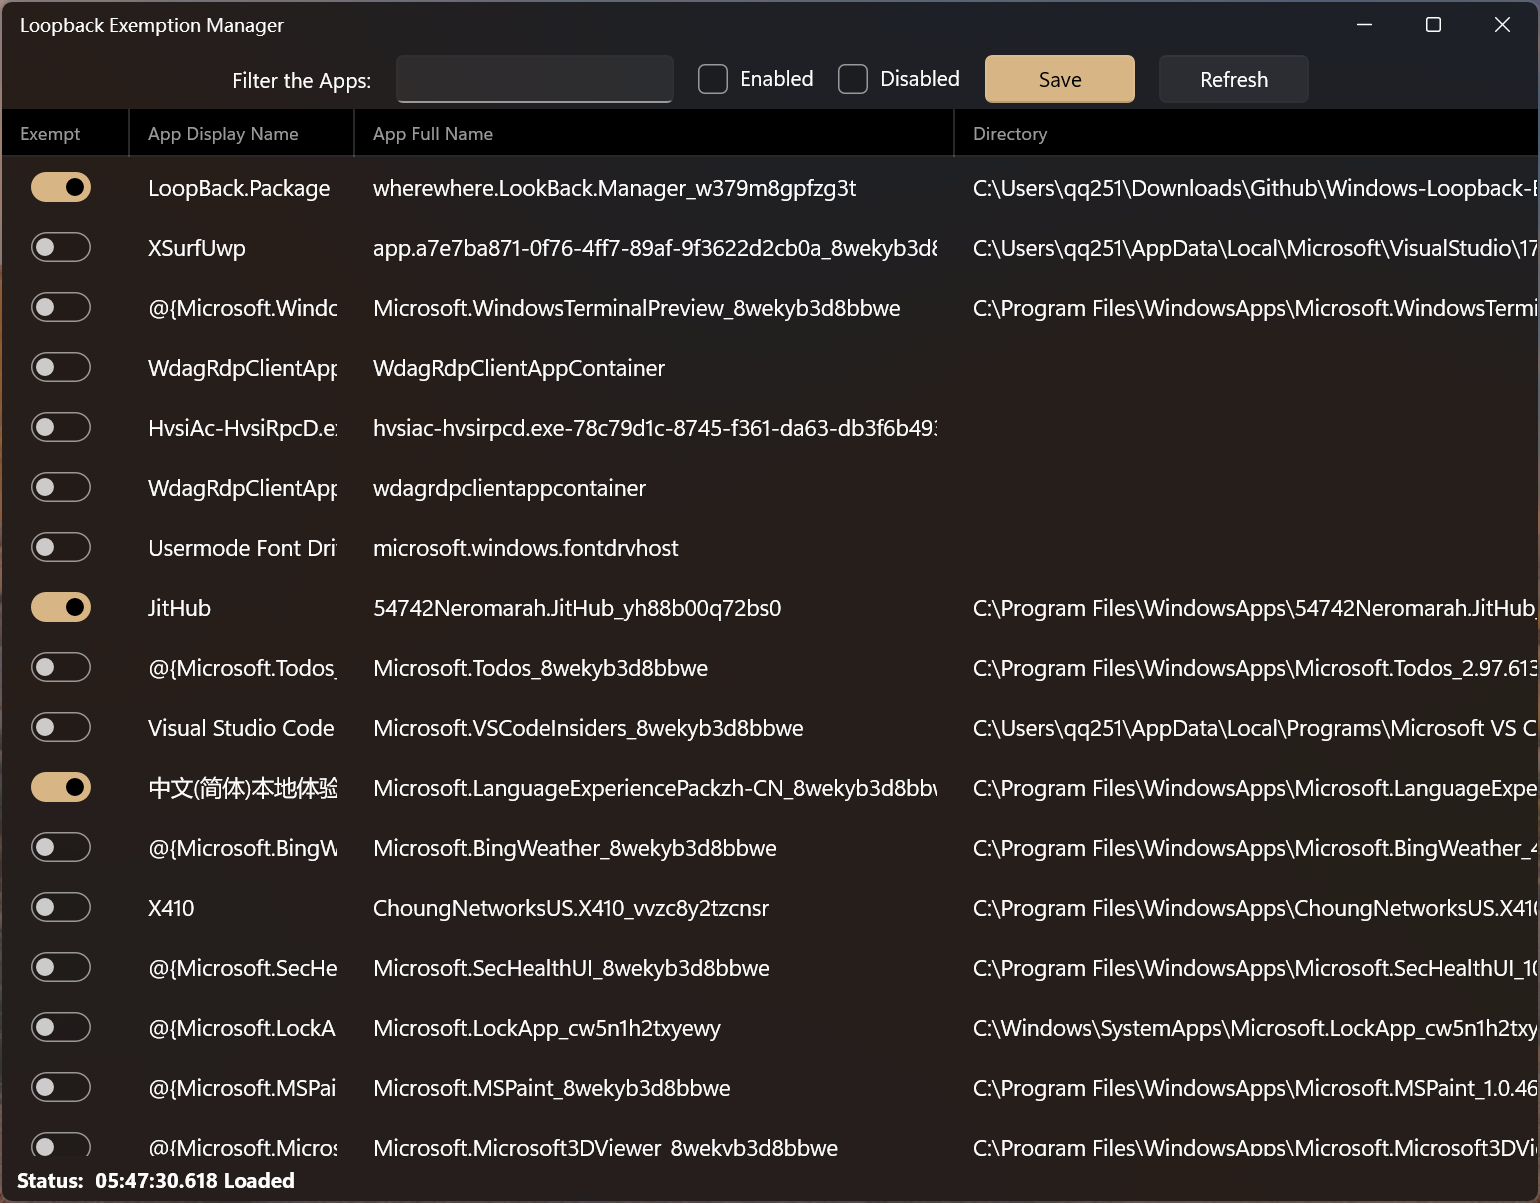
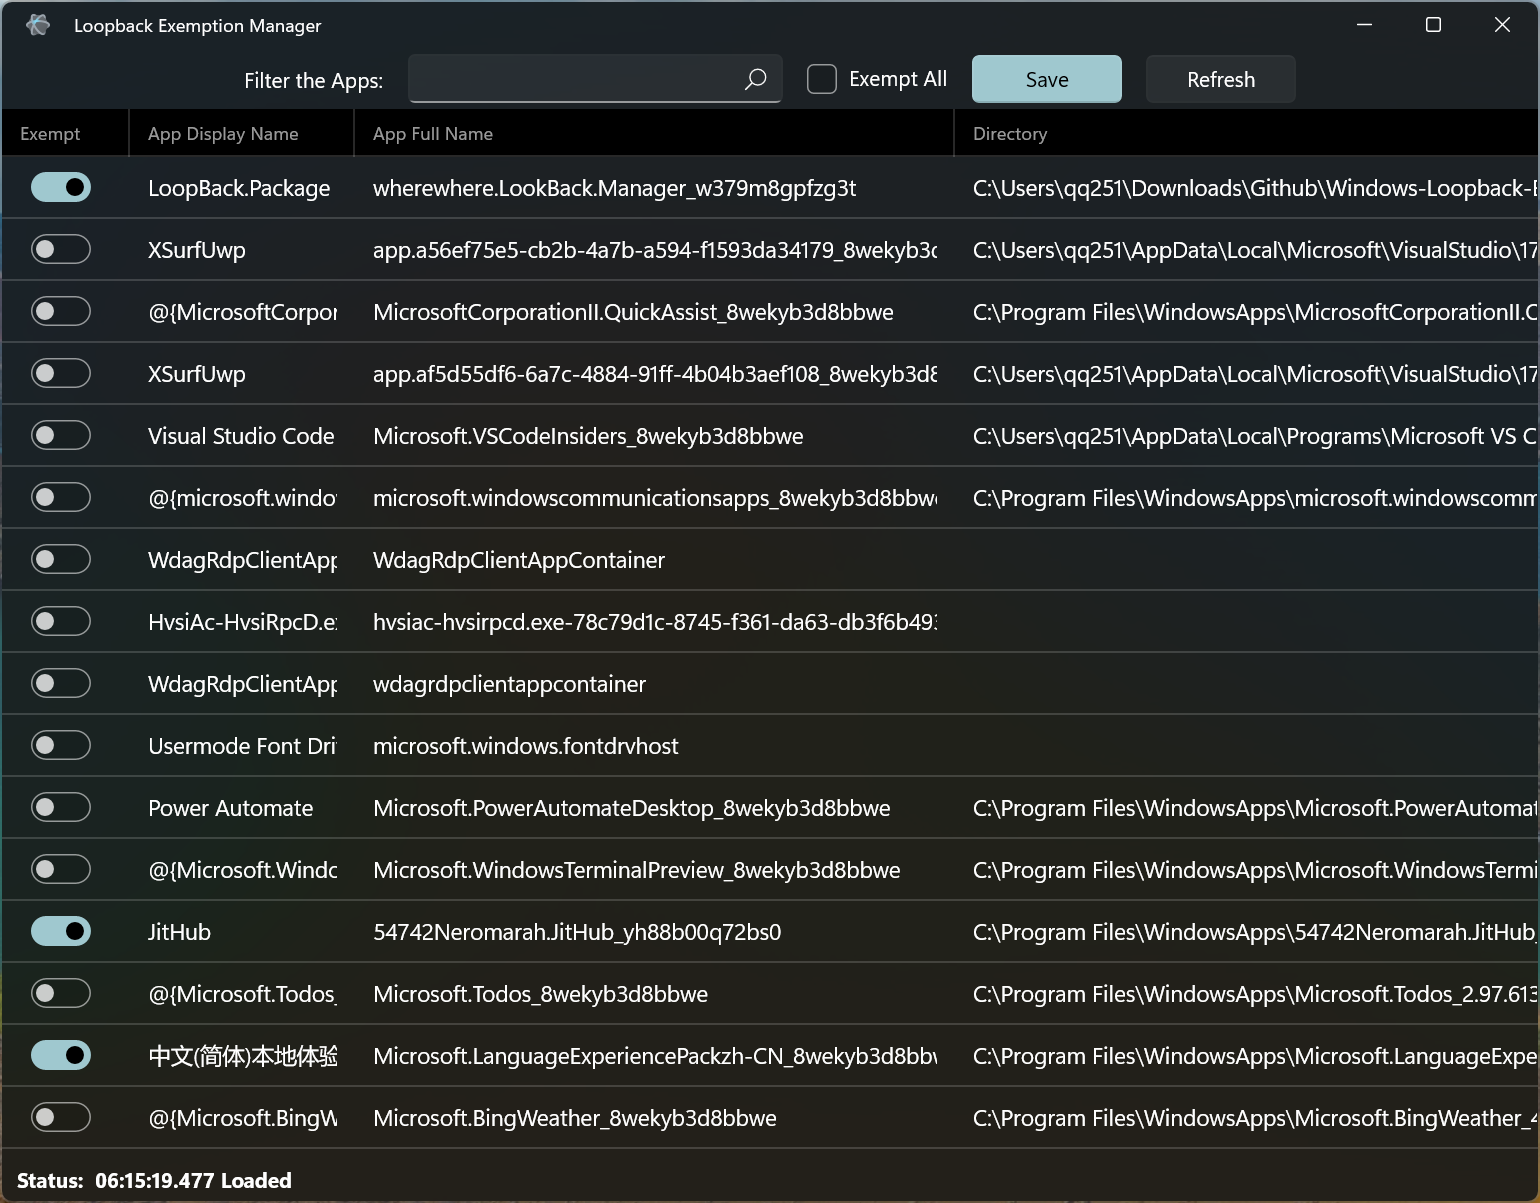
Add more null check

diff --git a/LoopBack/LoopBack.Client/Pages/ManagePage.xaml b/LoopBack/LoopBack.Client/Pages/ManagePage.xaml
@@ -64,7 +64,7 @@
                     MinWidth="0"
                     VerticalAlignment="Center"
                     Click="CheckBox_Click"
-                    Content="Select All" />
+                    Content="Exempt All" />
                 <Button
                     Width="100"
                     VerticalAlignment="Center"
@@ -149,7 +149,7 @@
                     Binding="{Binding AppContainerSid}"
                     CanUserResize="True"
                     CanUserSort="True"
-                    Header="App Container Sid"
+                    Header="App Container SID"
                     IsReadOnly="True"
                     Tag="AppContainerSid" />
                 <cwuc:DataGridTextColumn
@@ -157,7 +157,7 @@
                     Binding="{Binding UserSid}"
                     CanUserResize="True"
                     CanUserSort="True"
-                    Header="User Sid"
+                    Header="User SID"
                     IsReadOnly="True"
                     Tag="UserSid" />
             </cwuc:DataGrid.Columns>

diff --git a/LoopBack/LoopBack.Metadata/LoopUtil.cpp b/LoopBack/LoopBack.Metadata/LoopUtil.cpp
@@ -141,56 +141,13 @@ namespace winrt::LoopBack::Metadata::implementation
             if (tempSid != nullptr) { app.UserSid(tempSid); }
         }
 
-        IVector<hstring> capabilities = single_threaded_vector<hstring>();
-        if (PI_app.capabilities.count > 0)
-        {
-            vector<SID_AND_ATTRIBUTES> app_capabilities = GetCapabilities(PI_app.capabilities);
-            for (SID_AND_ATTRIBUTES app_capability : app_capabilities)
-            {
-                if (app_capability.Sid != nullptr)
-                {
-                    LPWSTR mysid;
-                    ConvertSidToStringSid(app_capability.Sid, &mysid);
-                    if (mysid != nullptr) { capabilities.Append(mysid); }
-                }
-            }
-        }
+        IVector<hstring> capabilities = GetCapabilities(PI_app.capabilities);
         app.Capabilities(capabilities);
 
         IVector<hstring> app_binaries = GetBinaries(PI_app.binaries);
         app.Binaries(app_binaries);
 
         return app;
-    }
-
-    IVector<hstring> LoopUtil::GetBinaries(INET_FIREWALL_AC_BINARIES cap)
-    {
-        IVector<hstring> myCap = single_threaded_vector<hstring>();
-
-        LPWSTR* arrayValue = cap.binaries;
-
-        for (DWORD i = 0; i < cap.count; i++)
-        {
-            LPWSTR cur = arrayValue[i];
-            myCap.Append(cur);
-        }
-
-        return myCap;
-    }
-
-    vector<SID_AND_ATTRIBUTES> LoopUtil::GetCapabilities(INET_FIREWALL_AC_CAPABILITIES cap)
-    {
-        vector<SID_AND_ATTRIBUTES> myCap;
-
-        SID_AND_ATTRIBUTES* arrayValue = cap.capabilities;
-
-        for (DWORD i = 0; i < cap.count; i++)
-        {
-            SID_AND_ATTRIBUTES cur = arrayValue[i];
-            myCap.push_back(cur);
-        }
-
-        return myCap;
     }
 
     bool LoopUtil::CheckLoopback(SID* intPtr)
@@ -213,6 +170,53 @@ namespace winrt::LoopBack::Metadata::implementation
         return false;
     }
 
+    IVector<hstring> LoopUtil::GetBinaries(INET_FIREWALL_AC_BINARIES cap)
+    {
+        IVector<hstring> myCap = single_threaded_vector<hstring>();
+
+        if (cap.binaries != nullptr)
+        {
+            LPWSTR* arrayValue = cap.binaries;
+
+            for (DWORD i = 0; i < cap.count; i++)
+            {
+                LPWSTR cur = arrayValue[i];
+                if (cur != nullptr)
+                {
+                    myCap.Append(cur);
+                }
+            }
+        }
+
+        return myCap;
+    }
+
+    IVector<hstring> LoopUtil::GetCapabilities(INET_FIREWALL_AC_CAPABILITIES cap)
+    {
+        IVector<hstring> myCap = single_threaded_vector<hstring>();
+
+        if (cap.capabilities != nullptr)
+        {
+            SID_AND_ATTRIBUTES* arrayValue = cap.capabilities;
+
+            for (DWORD i = 0; i < cap.count; i++)
+            {
+                SID_AND_ATTRIBUTES cur = arrayValue[i];
+                if (cur.Sid != nullptr)
+                {
+                    LPWSTR mysid;
+                    ConvertSidToStringSid(cur.Sid, &mysid);
+                    if (mysid != nullptr)
+                    {
+                        myCap.Append(mysid);
+                    }
+                }
+            }
+        }
+
+        return myCap;
+    }
+
     IVector<hstring> LoopUtil::PI_NetworkIsolationGetAppContainerConfig()
     {
         DWORD size = 0;
@@ -221,14 +225,20 @@ namespace winrt::LoopBack::Metadata::implementation
 
         if (GetNetworkIsolationGetAppContainerConfig()(&size, &arrayValue) == S_OK)
         {
-            for (DWORD i = 0; i < size; i++)
+            if (arrayValue != nullptr)
             {
-                LPWSTR sid;
-                SID_AND_ATTRIBUTES cur = arrayValue[i];
-                if (cur.Sid != nullptr)
+                for (DWORD i = 0; i < size; i++)
                 {
-                    ConvertSidToStringSid(cur.Sid, &sid);
-                    list.Append(sid);
+                    LPWSTR sid;
+                    SID_AND_ATTRIBUTES cur = arrayValue[i];
+                    if (cur.Sid != nullptr)
+                    {
+                        ConvertSidToStringSid(cur.Sid, &sid);
+                        if (sid != nullptr)
+                        {
+                            list.Append(sid);
+                        }
+                    }
                 }
             }
         }
@@ -238,23 +248,35 @@ namespace winrt::LoopBack::Metadata::implementation
 
     IVector<AppContainer> LoopUtil::PI_NetworkIsolationEnumAppContainers(IVector<AppContainer> &list)
     {
-        list.Clear();
+        if (list)
+        {
+            list.Clear();
+        }
+        else
+        {
+            list = single_threaded_vector<AppContainer>();
+        }
 
         DWORD size = 0;
         PINET_FIREWALL_APP_CONTAINER arrayValue = nullptr;
 
-        GetNetworkIsolationEnumAppContainers()(NETISO_FLAG::NETISO_FLAG_MAX, &size, &arrayValue);
-        PINET_FIREWALL_APP_CONTAINER _PACs = arrayValue; //store the pointer so it can be freed when we close the form
-
-        for (DWORD i = 0; i < size; i++)
+        if (GetNetworkIsolationEnumAppContainers()(NETISO_FLAG::NETISO_FLAG_MAX, &size, &arrayValue) == S_OK)
         {
-            INET_FIREWALL_APP_CONTAINER cur = arrayValue[i];
-            AppContainer app = CreateAppContainer(cur, CheckLoopback(cur.appContainerSid));
-            list.Append(app);
+            if (arrayValue != nullptr)
+            {
+                PINET_FIREWALL_APP_CONTAINER _PACs = arrayValue; //store the pointer so it can be freed when we close the form
+
+                for (DWORD i = 0; i < size; i++)
+                {
+                    INET_FIREWALL_APP_CONTAINER cur = arrayValue[i];
+                    AppContainer app = CreateAppContainer(cur, CheckLoopback(cur.appContainerSid));
+                    list.Append(app);
+                }
+
+                PI_NetworkIsolationFreeAppContainers(_PACs);
+            }
         }
 
-        PI_NetworkIsolationFreeAppContainers(_PACs);
-         
         return list;
     }
 
@@ -334,6 +356,7 @@ namespace winrt::LoopBack::Metadata::implementation
     IAsyncAction LoopUtil::StopService()
     {
         co_await winrt::resume_after(std::chrono::seconds(1));
+        Close();
         ExitProcess(S_OK);
     }
 }

diff --git a/LoopBack/LoopBack.Metadata/LoopUtil.h b/LoopBack/LoopBack.Metadata/LoopUtil.h
@@ -40,11 +40,10 @@ namespace winrt::LoopBack::Metadata::implementation
         IVector<AppContainer> apps = single_threaded_vector<AppContainer>();
         HINSTANCE FirewallAPI = nullptr;
 
-        vector<SID_AND_ATTRIBUTES> GetCapabilities(INET_FIREWALL_AC_CAPABILITIES cap);
-        IVector<hstring> GetBinaries(INET_FIREWALL_AC_BINARIES cap);
         AppContainer CreateAppContainer(INET_FIREWALL_APP_CONTAINER PI_app, bool loopUtil);
         bool CheckLoopback(SID* intPtr);
-        vector<SID_AND_ATTRIBUTES> GetContainerSID(INET_FIREWALL_AC_CAPABILITIES cap);
+        IVector<hstring> GetCapabilities(INET_FIREWALL_AC_CAPABILITIES cap);
+        IVector<hstring> GetBinaries(INET_FIREWALL_AC_BINARIES cap);
         IVector<hstring> PI_NetworkIsolationGetAppContainerConfig();
         IVector<AppContainer> PI_NetworkIsolationEnumAppContainers(IVector<AppContainer> &list);
         void PI_NetworkIsolationFreeAppContainers(PINET_FIREWALL_APP_CONTAINER point);

diff --git a/LoopBack/LoopBack.Client/Pages/ManagePage.xaml.cs b/LoopBack/LoopBack.Client/Pages/ManagePage.xaml.cs
@@ -38,7 +38,7 @@ namespace LoopBack.Client.Pages
         private void CheckBox_Click(object sender, RoutedEventArgs e)
         {
             CheckBox checkBox = sender as CheckBox;
-            _ = Provider.SelectAll(checkBox.IsChecked.Value);
+            _ = Provider.ExemptAll(checkBox.IsChecked.Value);
         }
 
         private void Button_Click(object sender, RoutedEventArgs e)

diff --git a/LoopBack/LoopBack.Client/ViewModels/ManageViewModel.cs b/LoopBack/LoopBack.Client/ViewModels/ManageViewModel.cs
@@ -150,7 +150,7 @@ namespace LoopBack.Client.ViewModels
             }
         }
 
-        public async Task SelectAll(bool isChecked)
+        public async Task ExemptAll(bool isChecked)
         {
             try
             {
